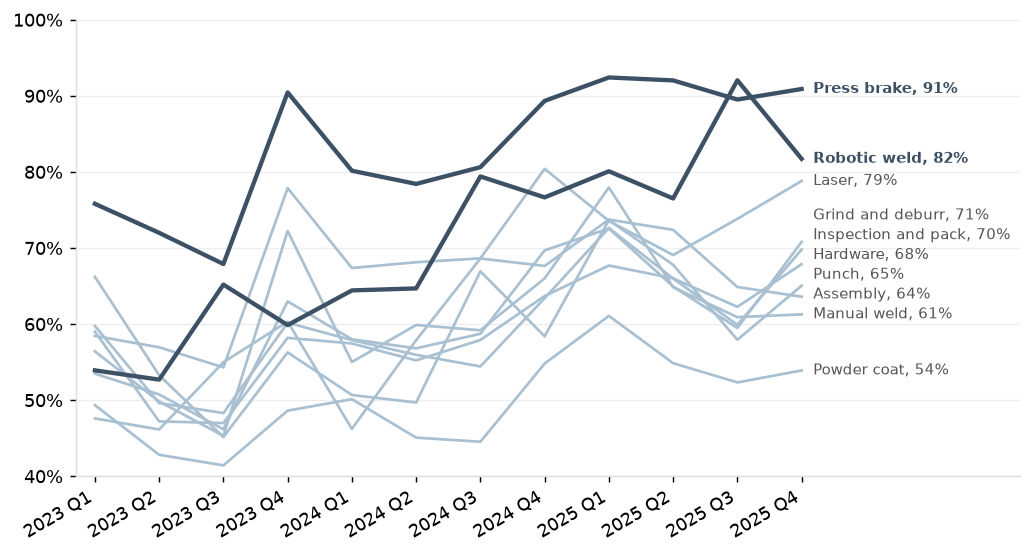
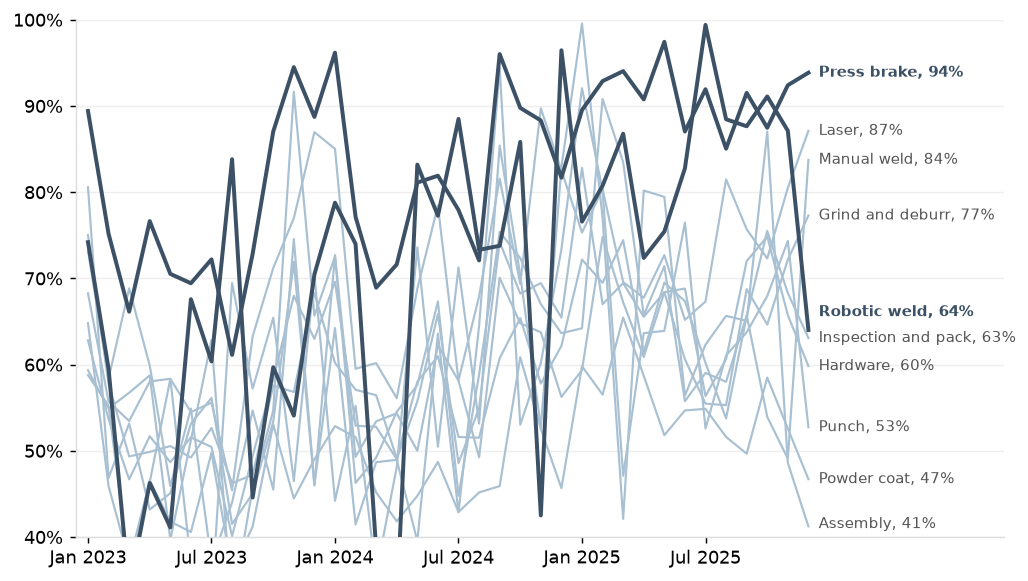
Capacity report: utilization trend by month

diff --git a/docs/reports/capacity_constraints_and_setups.html b/docs/reports/capacity_constraints_and_setups.html
@@ -58,7 +58,7 @@ nav.toc a.sub { font-size: 12px; padding-left: 22px; }
 <div class="layout"><nav class="toc"><div class="toc-title">Contents</div><a href="#f1">1. Capacity Across the Shop</a><a href="#f2">2. Load, Queue Time and WIP</a><a href="#f3">3. Setups Against Standard</a><a href="#f4">4. Run Standards</a><a href="#appendix">Appendix</a></nav>
 <main class="content"><h2 id='f1'>1. Capacity Across the Shop</h2>
 <p>The shop's floor consists of 25 machines across ten work centers. The press brakes run at the highest utilization of any work center, in every quarter since 2023 but one. The robotic weld cell has been second in every quarter from 2025 Q1, having run at 53% to 79% before then, when the lasers and other work centers ran above it; it passed the brakes once, in 2025 Q3 (92% against 90%).</p>
-<div class='chart-title'>Utilization by Work Center, 2023 to 2025</div><img alt="Utilization by Work Center, 2023 to 2025" src="../figures/capacity_utilization_trend.png?v=15ac8030">
+<div class='chart-title'>Utilization by Work Center, 2023 to 2025</div><img alt="Utilization by Work Center, 2023 to 2025" src="../figures/capacity_utilization_trend.png?v=3fa9c99b">
 <p>In 2025, the press brakes ran at 91% utilization against 97% uptime, and this 6-point gap was the smallest production capacity buffer of any work center. The robotic weld cell ran at 83% utilization against 97% uptime, a 14-point buffer. Uptime was 96% to 98% at every work center; for purposes of this report, uptime treats setup as running time, not downtime. See Appendix Table <a href='#t1'>1</a> for additional detail.</p>
 <div class='chart-title'>Utilization and Machine Uptime by Work Center</div><img alt="Utilization and Machine Uptime by Work Center" src="../figures/constraint_utilization_uptime.png?v=398f0550">
 <p>Not only do the press brakes and robotic weld cell have the highest average utilization, they also spend more time than any other work station at or near maximum utilization. Shown below is the share of weeks in 2025 that each work station spent at or above 95% average utilization. The press brakes and the robotic weld cell were at this level in 46% and 38% of weeks throughout the year. See Appendix Table <a href='#t2'>2</a> for additional detail.</p>

diff --git a/analytics/reports/capacity_constraints_and_setups.py b/analytics/reports/capacity_constraints_and_setups.py
@@ -62,24 +62,27 @@ QDAYS = q("select work_center, operations, queue_days, share_of_queue from marts
 
 
 def fig_utilization_trend():
-    """Utilization by quarter for each work center, each line named where it ends."""
-    d = QUARTERLY * 100
+    """Average weekly utilization by month for each work center, each line named where it ends."""
+    w = X["uw"].assign(month=lambda d: (d["week_start"] + pd.Timedelta(days=3)).dt.to_period("M"))
+    w = w[w["month"] >= pd.Period("2023-01")]
+    d = w.groupby(["month", "work_center"])["utilization"].mean().unstack() * 100
     x = np.arange(len(d))
-    f, ax = fig(h=4.4)
-    order = [w for w in d.columns if w not in LEAD_TWO] + LEAD_TWO
-    for w in order:
-        ax.plot(x, sig(d[w].to_numpy(dtype=float)), color=shade(w), linewidth=2.4 if w in LEAD_TWO else 1.5, zorder=3 if w in LEAD_TWO else 2)
+    f, ax = fig(h=4.6)
+    order = [c for c in d.columns if c not in LEAD_TWO] + LEAD_TWO
+    for c in order:
+        ax.plot(x, sig(d[c].to_numpy(dtype=float)), color=shade(c), linewidth=2.2 if c in LEAD_TWO else 1.2, zorder=3 if c in LEAD_TWO else 2)
     # the names at the right, moved apart where two lines end close together
     ends = d.iloc[-1].sort_values()
-    placed, gap = [], 2.6
-    for w, v in ends.items():
-        y = float(v) if not placed else max(float(v), placed[-1] + gap)
+    placed, gap = [], 3.0
+    for c, v in ends.items():
+        y = max(float(v), 41.5) if not placed else max(float(v), placed[-1] + gap)
         placed.append(y)
-        ax.text(x[-1] + 0.18, y, f"{WC[w]}, {v:.0f}%", ha="left", va="center", fontsize=8.5, color=BRAND_BLUE if w in LEAD_TWO else "#555555",
-                fontweight="bold" if w in LEAD_TWO else None)
-    ax.set_xticks(x)
-    ax.set_xticklabels(list(d.index), rotation=30, ha="right")
-    ax.set_xlim(-0.3, x[-1] + 3.4)
+        ax.text(x[-1] + 0.5, y, f"{WC[c]}, {v:.0f}%", ha="left", va="center", fontsize=8.5, color=BRAND_BLUE if c in LEAD_TWO else "#555555",
+                fontweight="bold" if c in LEAD_TWO else None)
+    ticks = x[::6]
+    ax.set_xticks(ticks)
+    ax.set_xticklabels([d.index[k].strftime("%b %Y") for k in ticks])
+    ax.set_xlim(-0.6, x[-1] + 9.5)
     ax.set_ylim(40, 100)
     ax.yaxis.set_major_formatter(lambda t, _: f"{t:.0f}%")
     f.tight_layout()
